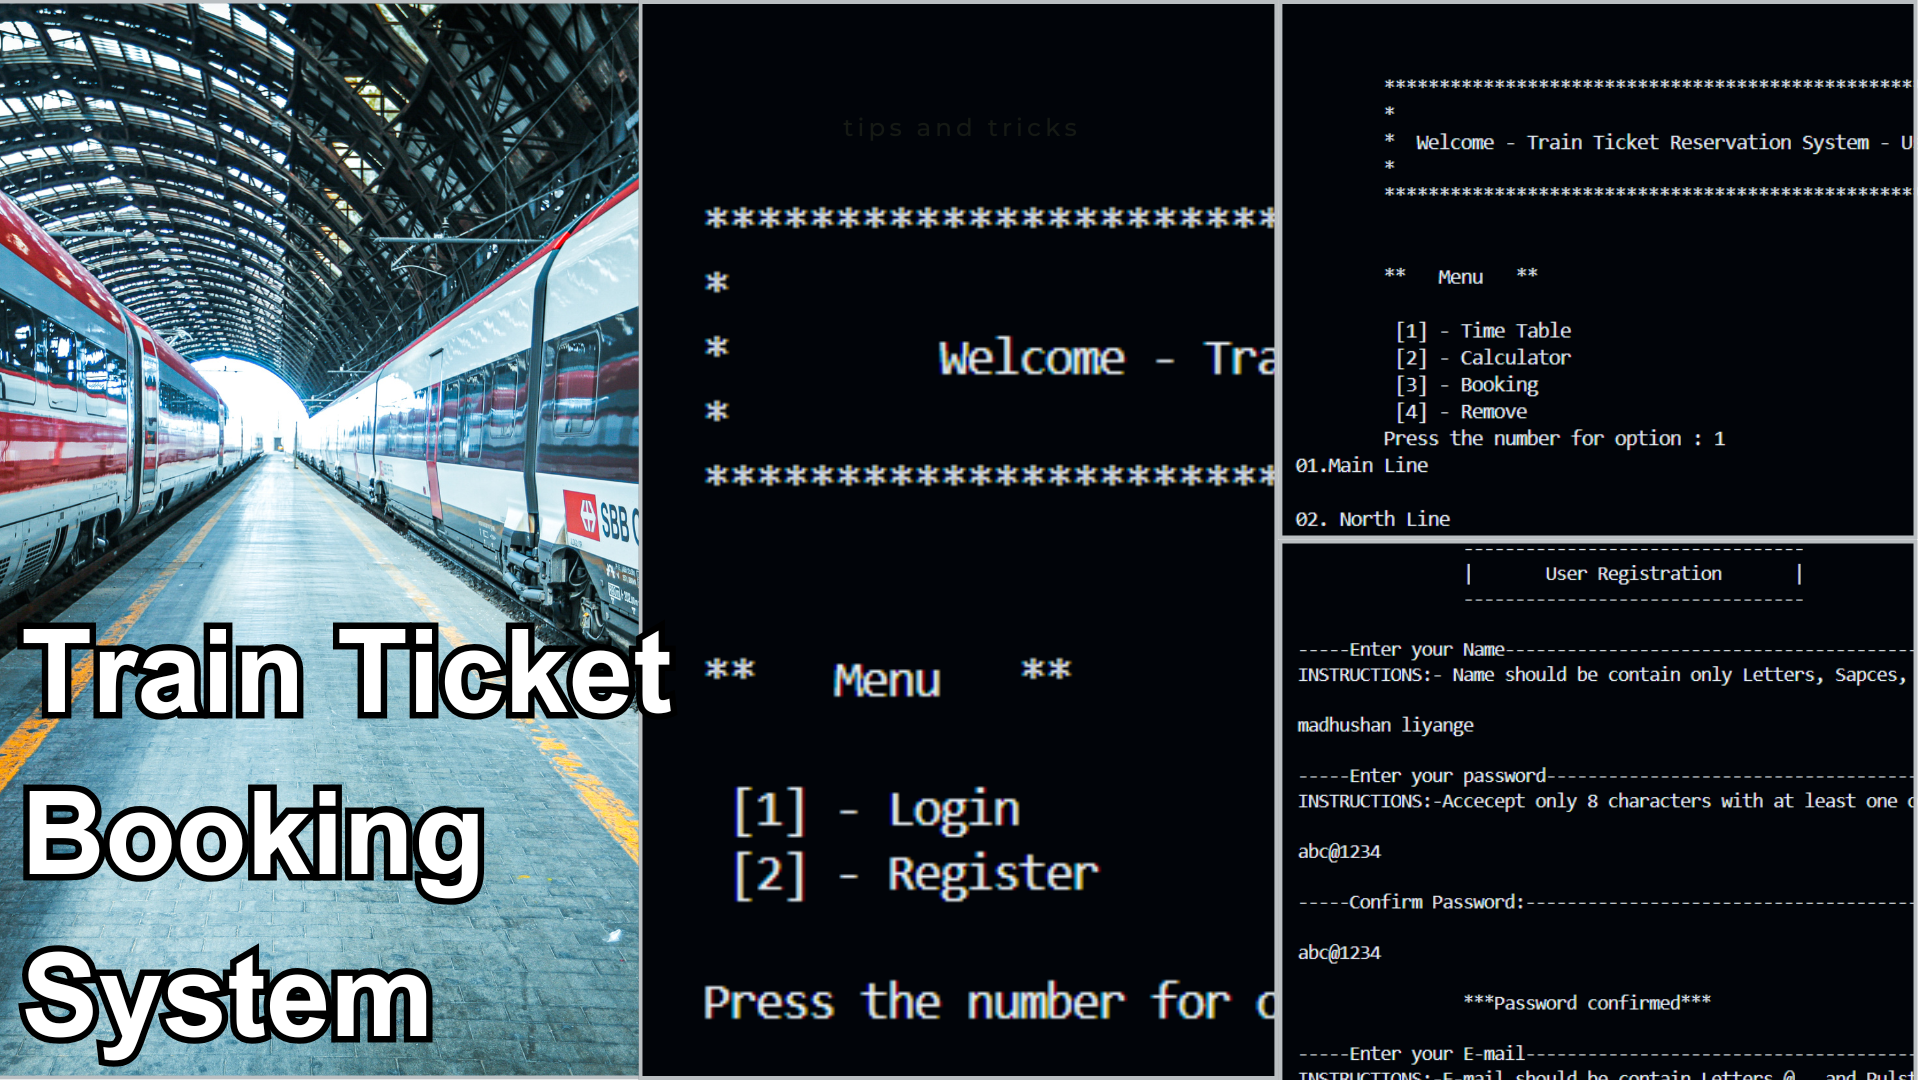
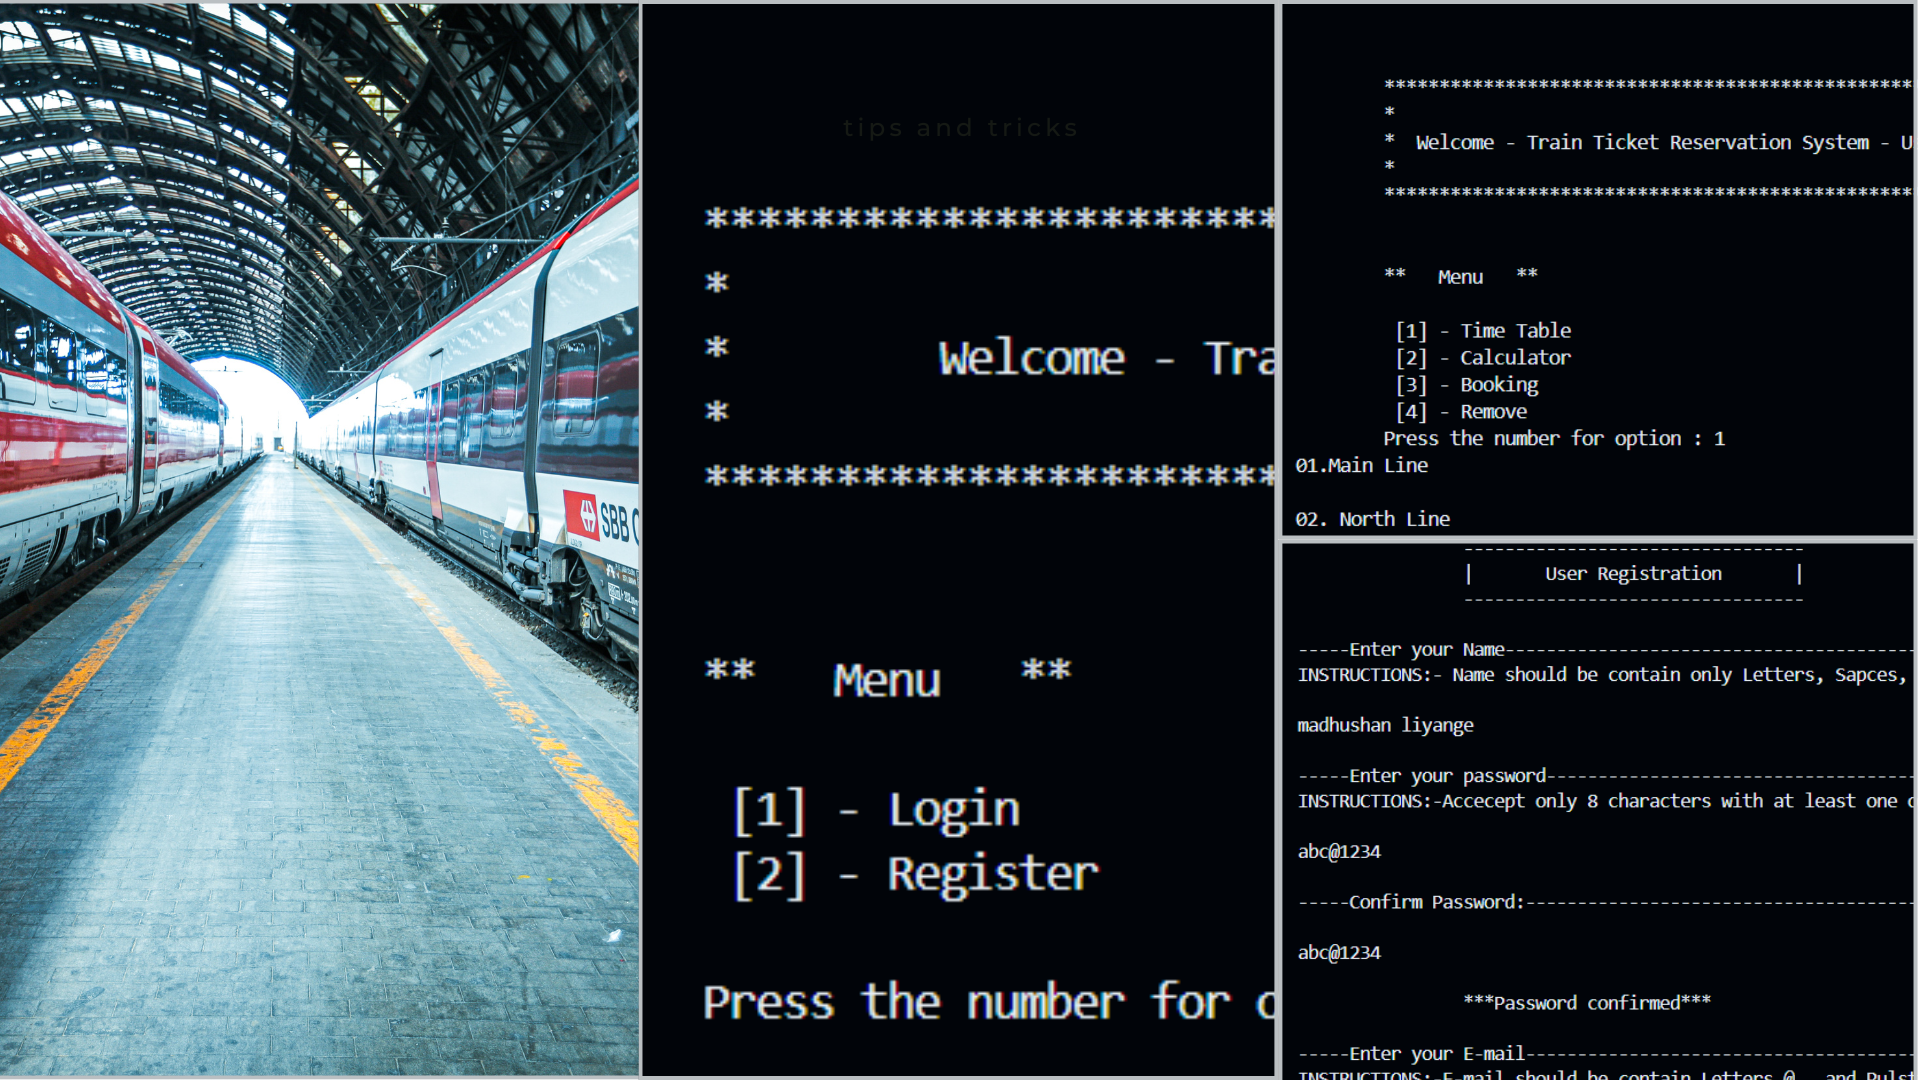
Enhance project popup functionality; update styles, event listeners, and dynamic content handling

Changed region(s): [[0.0, 0.55, 0.3438, 0.6722], [0.0, 0.7028, 0.25, 0.8556], [0.0, 0.8556, 0.25, 1.0]]

diff --git a/index.js b/index.js
@@ -9,33 +9,44 @@ let projectCards = "";
 
 for (let project of projectArray) {
     projectCards += `<div class="project light-color-card">
-                        <h3>${project.title}</h3>
                         <img src="images/projectImages/${project.id}/cover.png" alt="">
-                        <p>
-                            ${project.description}
-                        </p>
+                        <h3>${project.title}</h3>
                     </div>`;
 }
 //<a href="${project.link}" target="_blank">View On Github</a>
 
 document.getElementById("project-cards").innerHTML = projectCards;
 
-
-
 //show popup project window
-let projects = document.querySelectorAll('div');
-console.log(projects);
+let projects = Array.from(document.getElementsByClassName('project')); //convert to an array
+// console.log(projects);
 
-projects.forEach(element => {
-    element.addEventListener('click',(event)=>{
-        console.log("you clicked project:",element);
-        
-    })
-});
+for (let projectIdx in projects){
+    projects[projectIdx].addEventListener('click',()=>{
+        // console.log(projects[projectIdx]);
+        let popupWindow = document.getElementById('pop-project-card');
+        popupWindow.style.visibility="visible";
+        popupWindow.insertAdjacentHTML('beforeend',popupContentCreator(projectIdx));
+    });
+}
 
+const popupContentCreator = (idx) => {
+    return `<div id="dynamic-content">
+                <h3>${projectArray[idx].title}</h3>
+                <img src="images/projectImages/${projectArray[idx].id}/cover.png" alt="">
+                <p>${projectArray[idx].description}</p>
+            </div>`;
+};
 
 
 //hide popup project window
-document.getElementById('popup-cancelbtn').addEventListener("click",(event)=>{
-    document.getElementById('pop-project-card').style.visibility="hidden";
-})
+document.getElementById('popup-cancelbtn').addEventListener("click", () => {
+    let popupWindow = document.getElementById('pop-project-card');
+    popupWindow.style.visibility = "hidden";
+    
+    // Remove only dynamically added content
+    let dynamicContent = document.getElementById('dynamic-content');
+    if (dynamicContent) {
+        dynamicContent.remove();
+    }
+});

diff --git a/index.html b/index.html
@@ -81,9 +81,9 @@
   <section class="container" id="projects">
     <h1>Projects</h1>
 
-      <div id="pop-project-card">
+      <div id="pop-project-card"> 
         <div id="popup-cancelbtn">&#10006;</div>
-        hello this is the pop up project card
+        <!-- poping up projects by javascript -->
       </div>
 
       <div id="project-cards">
@@ -127,6 +127,11 @@
       </div>
     </div>
   </section>
+
+  <svg id="navigUp" xmlns="http://www.w3.org/2000/svg" width="40" height="40" viewBox="0 0 24 24" fill="none" stroke="white" stroke-width="2" stroke-linecap="round" stroke-linejoin="round">
+    <circle cx="12" cy="12" r="10"/>
+    <polyline points="7 14 12 8 17 14"/>
+  </svg>
 
   <footer>
     &copy; 2025 Madhushan Liyanage. All Rights Reserved.

diff --git a/popupcards.css b/popupcards.css
@@ -1,15 +1,20 @@
 #pop-project-card{
-    background-color: red;
+    /* background: linear-gradient(135deg, #FF6347, #FF4500, #FF6B81); */
+    background: linear-gradient(135deg,#FFDAB9,#FFA07A, #fe8873);
+
     border-radius: 25px;
     padding: 25px;
     width: 80%;
     margin: auto;
     height: 70%;
+    overflow: auto;
 
     position:fixed;
     top: 15%;
     left: 10%;
     visibility: hidden;
+
+    box-shadow: 0 0 500px black;
 }
 
 #popup-cancelbtn{
@@ -21,4 +26,8 @@
 
 #popup-cancelbtn:hover{
     cursor:pointer;
+}
+
+#pop-project-card img{
+    width: 100%;
 }

diff --git a/style2.css b/style2.css
@@ -208,3 +208,12 @@ footer {
     padding: 50px 0px 15px 0px;
     text-align: center;
 }
+
+#navigUp{
+    position: fixed;
+    bottom: 50px;
+    right: 50px;
+    border-radius: 50%;
+    background-color: tomato;
+    box-shadow: 0 0 10px black;
+}
